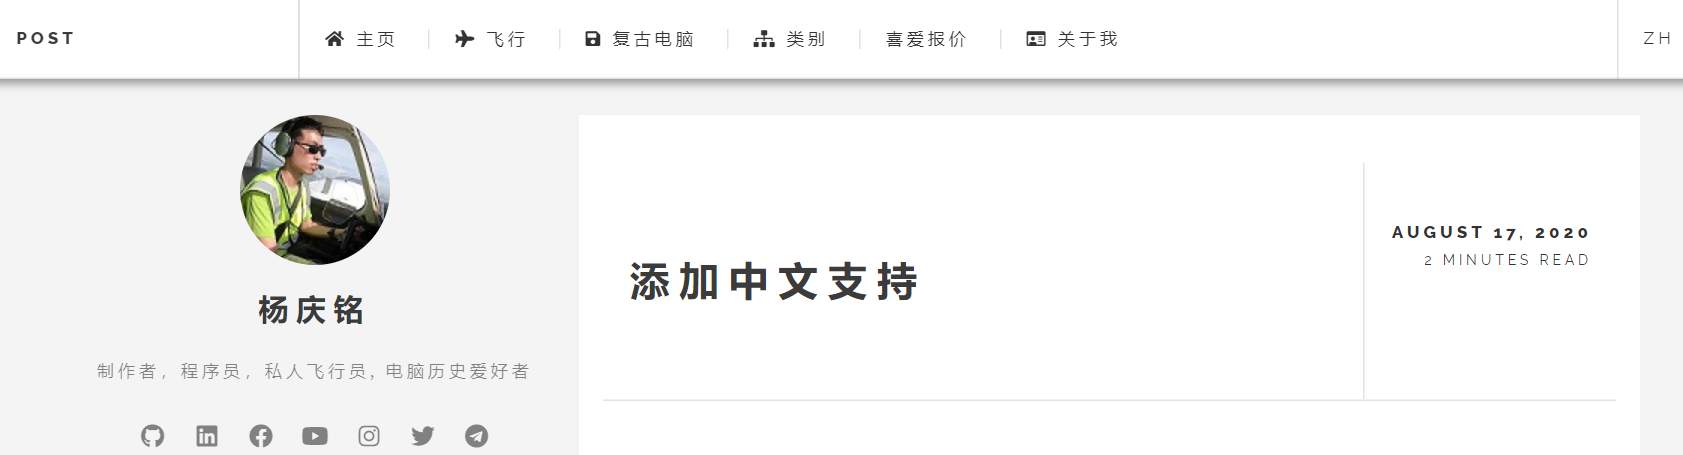
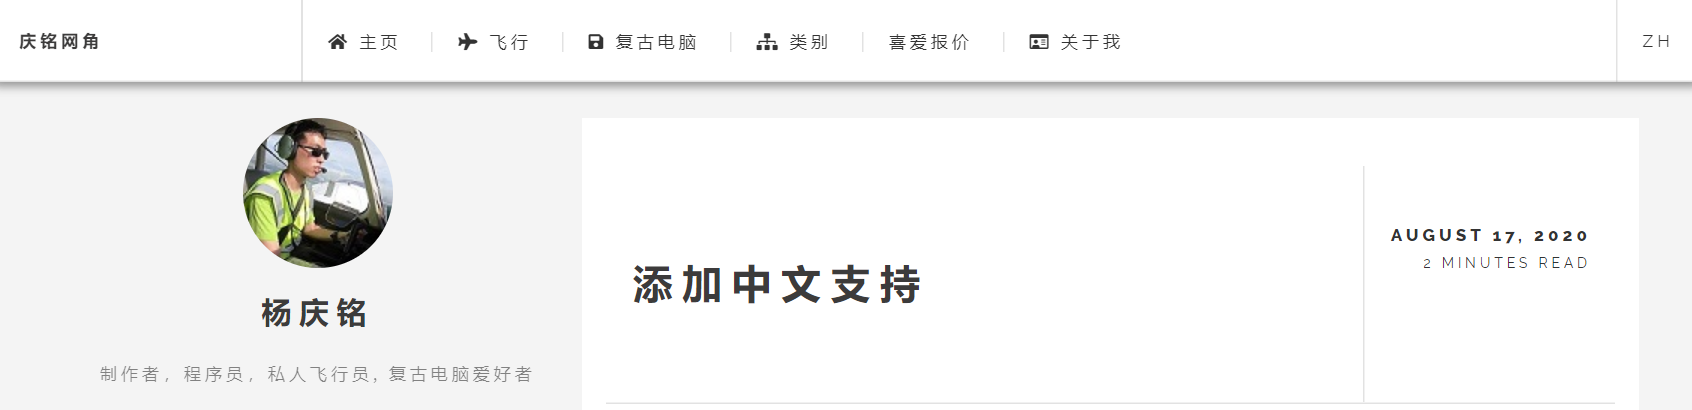
adjust my Chinese description of retrocomputing enthusiast

diff --git a/2020/08/adding-chinese-support-to-my-blog/index.html b/2020/08/adding-chinese-support-to-my-blog/index.html
@@ -9,10 +9,11 @@
 <meta name="generator" content="Hugo 0.74.3" /><meta itemprop="name" content="Adding Chinese support to my blog">
 <meta itemprop="description" content="I&rsquo;ve been working in a Chinese tech company for some months now. I realised I needed improve my command of technical Chinese rather than taking the easy way out of using the English terms when communicating with my Chinese colleagues.
 The only way to improve is to use it more often but technical Chinese is rarely utilised and understood outside the working environment of a Chinese tech company in Singapore. Therefore there are limited opportunities to improve in this area.
-Since I write on quite a lot of technical stuff, I thought one way to improve my usage of technical Chinese is by writing bilingual blog posts. To do that, I&rsquo;ll first have to adjust my blog to have multilingual support。">
+Since I write on quite a lot of technical stuff, I thought one way to improve my usage of technical Chinese is by writing bilingual blog posts. To do that, I&rsquo;ll first have to adjust my blog to have multilingual support。
+(Check out the Chinese version of this post here.)">
 <meta itemprop="datePublished" content="2020-08-17T00:00:00+00:00" />
 <meta itemprop="dateModified" content="2020-08-17T00:00:00+00:00" />
-<meta itemprop="wordCount" content="933">
+<meta itemprop="wordCount" content="943">
 <meta itemprop="image" content="http://yeokhengmeng.com/2020/08/adding-chinese-support-to-my-blog/images/title-post-capture.png">
 
 
@@ -21,7 +22,8 @@ Since I write on quite a lot of technical stuff, I thought one way to improve my
 <meta property="og:title" content="Adding Chinese support to my blog" />
 <meta property="og:description" content="I&rsquo;ve been working in a Chinese tech company for some months now. I realised I needed improve my command of technical Chinese rather than taking the easy way out of using the English terms when communicating with my Chinese colleagues.
 The only way to improve is to use it more often but technical Chinese is rarely utilised and understood outside the working environment of a Chinese tech company in Singapore. Therefore there are limited opportunities to improve in this area.
-Since I write on quite a lot of technical stuff, I thought one way to improve my usage of technical Chinese is by writing bilingual blog posts. To do that, I&rsquo;ll first have to adjust my blog to have multilingual support。" />
+Since I write on quite a lot of technical stuff, I thought one way to improve my usage of technical Chinese is by writing bilingual blog posts. To do that, I&rsquo;ll first have to adjust my blog to have multilingual support。
+(Check out the Chinese version of this post here.)" />
 <meta property="og:type" content="article" />
 <meta property="og:url" content="http://yeokhengmeng.com/2020/08/adding-chinese-support-to-my-blog/" />
 <meta property="og:image" content="http://yeokhengmeng.com/2020/08/adding-chinese-support-to-my-blog/images/title-post-capture.png" />
@@ -33,7 +35,8 @@ Since I write on quite a lot of technical stuff, I thought one way to improve my
 <meta name="twitter:title" content="Adding Chinese support to my blog"/>
 <meta name="twitter:description" content="I&rsquo;ve been working in a Chinese tech company for some months now. I realised I needed improve my command of technical Chinese rather than taking the easy way out of using the English terms when communicating with my Chinese colleagues.
 The only way to improve is to use it more often but technical Chinese is rarely utilised and understood outside the working environment of a Chinese tech company in Singapore. Therefore there are limited opportunities to improve in this area.
-Since I write on quite a lot of technical stuff, I thought one way to improve my usage of technical Chinese is by writing bilingual blog posts. To do that, I&rsquo;ll first have to adjust my blog to have multilingual support。"/>
+Since I write on quite a lot of technical stuff, I thought one way to improve my usage of technical Chinese is by writing bilingual blog posts. To do that, I&rsquo;ll first have to adjust my blog to have multilingual support。
+(Check out the Chinese version of this post here.)"/>
 <meta name="twitter:site" content="@yeokm1"/>
 <link rel="stylesheet" href="/css/bundle.min.96356e7aeceb48a1343f921d402b05a402e1e0cd40f1a6679962775bdd0577d1.css" integrity="sha256-ljVueuzrSKE0P5IdQCsFpALh4M1A8aZnmWJ3W90Fd9E=">
         <link rel="stylesheet" href="/css/add-on.css">
@@ -217,6 +220,7 @@ Since I write on quite a lot of technical stuff, I thought one way to improve my
     <p>I&rsquo;ve been working in a Chinese tech company for some months now. I realised I needed improve my command of technical Chinese rather than taking the easy way out of using the English terms when communicating with my Chinese colleagues.</p>
 <p>The only way to improve is to use it more often but technical Chinese is rarely utilised and understood outside the working environment of a Chinese tech company in Singapore. Therefore there are limited opportunities to improve in this area.</p>
 <p>Since I write on quite a lot of technical stuff, I thought one way to improve my usage of technical Chinese is by writing bilingual blog posts. To do that, I&rsquo;ll first have to adjust my blog to have multilingual support。</p>
+<p>(Check out the Chinese version of this post <a href="/zh/2020/08/%E6%B7%BB%E5%8A%A0%E4%B8%AD%E6%96%87%E6%94%AF%E6%8C%81/">here</a>.)</p>
 <p>My blog uses the Hugo static site generator so the first step is to head to <a href="https://gohugo.io/content-management/multilingualhe/">Hugo&rsquo;s web site</a> to read up on how I should proceed.</p>
 <h2 id="1-adjust-site-configuration">1. Adjust site configuration</h2>
 <p>Hugo sites including mine have a <code>config.toml</code> that specifies key site information like URL, title, theme and other parameters.</p>
@@ -232,7 +236,7 @@ Since I write on quite a lot of technical stuff, I thought one way to improve my
     
   [Languages.zh.params.intro]
     header                = &quot;杨庆铭&quot;
-    paragraph             = &quot;制作者，程序员，私人飞行员, 电脑历史爱好者&quot;
+    paragraph             = &quot;制作者，程序员，私人飞行员, 复古电脑爱好者&quot;
 ...
 
     [Languages.zh.params.intro.pic]
@@ -321,7 +325,7 @@ https://yeokhengmeng.com/zh/2020/08/adding-chinese-support-to-my-blog/
 <p>As for how I wrote the Chinese version of this post given my relatively poorer command of Chinese, I used both Google and Baidu translation websites to assist me to translate words that I did not know how to express. Then verify that the translation actually makes sense and can carry the context and point in my personal style.</p>
 <p>Therefore the Chinese version is not a direct automated translation. You can use Google translate on my text if you don&rsquo;t believe me.</p>
 <p>I hope you find this interesting!</p>
-<p>Checkout the Chinese version of this post <a href="/zh/2020/08/%E6%B7%BB%E5%8A%A0%E4%B8%AD%E6%96%87%E6%94%AF%E6%8C%81/">here</a>.</p>
+<p>Check out the Chinese version of this post <a href="/zh/2020/08/%E6%B7%BB%E5%8A%A0%E4%B8%AD%E6%96%87%E6%94%AF%E6%8C%81/">here</a>.</p>
   </div>
   <footer>
     <ul class="stats">

diff --git a/zh/2020/08/添加中文支持/index.html b/zh/2020/08/添加中文支持/index.html
@@ -9,10 +9,11 @@
 <meta name="generator" content="Hugo 0.74.3" /><meta itemprop="name" content="添加中文支持">
 <meta itemprop="description" content="我在一个中国科技公司已经工作几个月了。我发觉自己必须提高本身的中文水平, 尤其是在科技词汇方面，而不只是选择用英文的词汇的捷径。
 唯一的方法是尽量在工作环境外使用中文。但在新加波，除了来自中国的科技公司之外，没人使用中文的科技词汇。因此，我预计自己很少有机会来练习。
-我写了很多关已科技类的博格文章。所以我想到了不如用双语来写文章。但首先必须调整个人的博客配置来接受肯多语言。">
+我写了很多关已科技类的博格文章。所以我想到了不如用双语来写文章。但首先必须调整个人的博客配置来接受肯多语言。
+(起初的英文文章能在这里找到。)">
 <meta itemprop="datePublished" content="2020-08-17T00:00:00+00:00" />
 <meta itemprop="dateModified" content="2020-08-17T00:00:00+00:00" />
-<meta itemprop="wordCount" content="244">
+<meta itemprop="wordCount" content="245">
 <meta itemprop="image" content="http://yeokhengmeng.com/zh/2020/08/%E6%B7%BB%E5%8A%A0%E4%B8%AD%E6%96%87%E6%94%AF%E6%8C%81/images/title-post-capture.png">
 
 
@@ -21,7 +22,8 @@
 <meta property="og:title" content="添加中文支持" />
 <meta property="og:description" content="我在一个中国科技公司已经工作几个月了。我发觉自己必须提高本身的中文水平, 尤其是在科技词汇方面，而不只是选择用英文的词汇的捷径。
 唯一的方法是尽量在工作环境外使用中文。但在新加波，除了来自中国的科技公司之外，没人使用中文的科技词汇。因此，我预计自己很少有机会来练习。
-我写了很多关已科技类的博格文章。所以我想到了不如用双语来写文章。但首先必须调整个人的博客配置来接受肯多语言。" />
+我写了很多关已科技类的博格文章。所以我想到了不如用双语来写文章。但首先必须调整个人的博客配置来接受肯多语言。
+(起初的英文文章能在这里找到。)" />
 <meta property="og:type" content="article" />
 <meta property="og:url" content="http://yeokhengmeng.com/zh/2020/08/%E6%B7%BB%E5%8A%A0%E4%B8%AD%E6%96%87%E6%94%AF%E6%8C%81/" />
 <meta property="og:image" content="http://yeokhengmeng.com/zh/2020/08/%E6%B7%BB%E5%8A%A0%E4%B8%AD%E6%96%87%E6%94%AF%E6%8C%81/images/title-post-capture.png" />
@@ -33,7 +35,8 @@
 <meta name="twitter:title" content="添加中文支持"/>
 <meta name="twitter:description" content="我在一个中国科技公司已经工作几个月了。我发觉自己必须提高本身的中文水平, 尤其是在科技词汇方面，而不只是选择用英文的词汇的捷径。
 唯一的方法是尽量在工作环境外使用中文。但在新加波，除了来自中国的科技公司之外，没人使用中文的科技词汇。因此，我预计自己很少有机会来练习。
-我写了很多关已科技类的博格文章。所以我想到了不如用双语来写文章。但首先必须调整个人的博客配置来接受肯多语言。"/>
+我写了很多关已科技类的博格文章。所以我想到了不如用双语来写文章。但首先必须调整个人的博客配置来接受肯多语言。
+(起初的英文文章能在这里找到。)"/>
 <meta name="twitter:site" content="@yeokm1"/>
 <link rel="stylesheet" href="/css/bundle.min.96356e7aeceb48a1343f921d402b05a402e1e0cd40f1a6679962775bdd0577d1.css" integrity="sha256-ljVueuzrSKE0P5IdQCsFpALh4M1A8aZnmWJ3W90Fd9E=">
         <link rel="stylesheet" href="/css/add-on.css">
@@ -124,7 +127,7 @@
     <h1>杨庆铭</h1>
   </header>
   <main>
-    <p>制作者，程序员，私人飞行员, 电脑历史爱好者</p>
+    <p>制作者，程序员，私人飞行员, 复古电脑爱好者</p>
   </main>
   
     <footer>
@@ -217,6 +220,7 @@
     <p>我在一个中国科技公司已经工作几个月了。我发觉自己必须提高本身的中文水平, 尤其是在科技词汇方面，而不只是选择用英文的词汇的捷径。</p>
 <p>唯一的方法是尽量在工作环境外使用中文。但在新加波，除了来自中国的科技公司之外，没人使用中文的科技词汇。因此，我预计自己很少有机会来练习。</p>
 <p>我写了很多关已科技类的博格文章。所以我想到了不如用双语来写文章。但首先必须调整个人的博客配置来接受肯多语言。</p>
+<p>(起初的英文文章能在<a href="/2020/08/adding-chinese-support-to-my-blog/">这里找到</a>。)</p>
 <p>我的博客使用Hugo &ldquo;静态网站生成器&rdquo; (static site generator). 我先去<a href="https://gohugo.io/content-management/multilingual/">Hugo 网站</a>研究怎样开始。</p>
 <h2 id="1-调整网站配置">1. 调整网站配置</h2>
 <p>每个Hugo 网站都有一个<code>config.toml</code>来指定网站的信息，URL，标题， 主题和其他参数. 它也有特定主题的配置。我用的主题是<a href="https://themes.gohugo.io/hugo-future-imperfect-slim/">hugo-future-imperfect-slim</a>。</p>
@@ -231,7 +235,7 @@
     
   [Languages.zh.params.intro]
     header                = &quot;杨庆铭&quot;
-    paragraph             = &quot;制作者，程序员，私人飞行员, 电脑历史爱好者&quot;
+    paragraph             = &quot;制作者，程序员，私人飞行员, 复古电脑爱好者&quot;
 ...
 
     [Languages.zh.params.intro.pic]

diff --git a/zh/favourite-quotes/index.html b/zh/favourite-quotes/index.html
@@ -130,7 +130,7 @@ adding manpower to a late software project makes it later
     <h1>杨庆铭</h1>
   </header>
   <main>
-    <p>制作者，程序员，私人飞行员, 电脑历史爱好者</p>
+    <p>制作者，程序员，私人飞行员, 复古电脑爱好者</p>
   </main>
   
     <footer>

diff --git a/zh/about-me/index.html b/zh/about-me/index.html
@@ -118,7 +118,7 @@
     <h1>杨庆铭</h1>
   </header>
   <main>
-    <p>制作者，程序员，私人飞行员, 电脑历史爱好者</p>
+    <p>制作者，程序员，私人飞行员, 复古电脑爱好者</p>
   </main>
   
     <footer>

diff --git a/zh/categories/index.html b/zh/categories/index.html
@@ -106,7 +106,7 @@
     <h1>杨庆铭</h1>
   </header>
   <main>
-    <p>制作者，程序员，私人飞行员, 电脑历史爱好者</p>
+    <p>制作者，程序员，私人飞行员, 复古电脑爱好者</p>
   </main>
   
     <footer>

diff --git a/zh/categories/管理/index.html b/zh/categories/管理/index.html
@@ -111,7 +111,7 @@
     <h1>杨庆铭</h1>
   </header>
   <main>
-    <p>制作者，程序员，私人飞行员, 电脑历史爱好者</p>
+    <p>制作者，程序员，私人飞行员, 复古电脑爱好者</p>
   </main>
   
     <footer>

diff --git a/zh/index.html b/zh/index.html
@@ -104,7 +104,7 @@
     <h1>杨庆铭</h1>
   </header>
   <main>
-    <p>制作者，程序员，私人飞行员, 电脑历史爱好者</p>
+    <p>制作者，程序员，私人飞行员, 复古电脑爱好者</p>
   </main>
   
     <footer>

diff --git a/zh/post/index.html b/zh/post/index.html
@@ -106,7 +106,7 @@
     <h1>杨庆铭</h1>
   </header>
   <main>
-    <p>制作者，程序员，私人飞行员, 电脑历史爱好者</p>
+    <p>制作者，程序员，私人飞行员, 复古电脑爱好者</p>
   </main>
   
     <footer>

diff --git a/zh/tags/index.html b/zh/tags/index.html
@@ -106,7 +106,7 @@
     <h1>杨庆铭</h1>
   </header>
   <main>
-    <p>制作者，程序员，私人飞行员, 电脑历史爱好者</p>
+    <p>制作者，程序员，私人飞行员, 复古电脑爱好者</p>
   </main>
   
     <footer>
